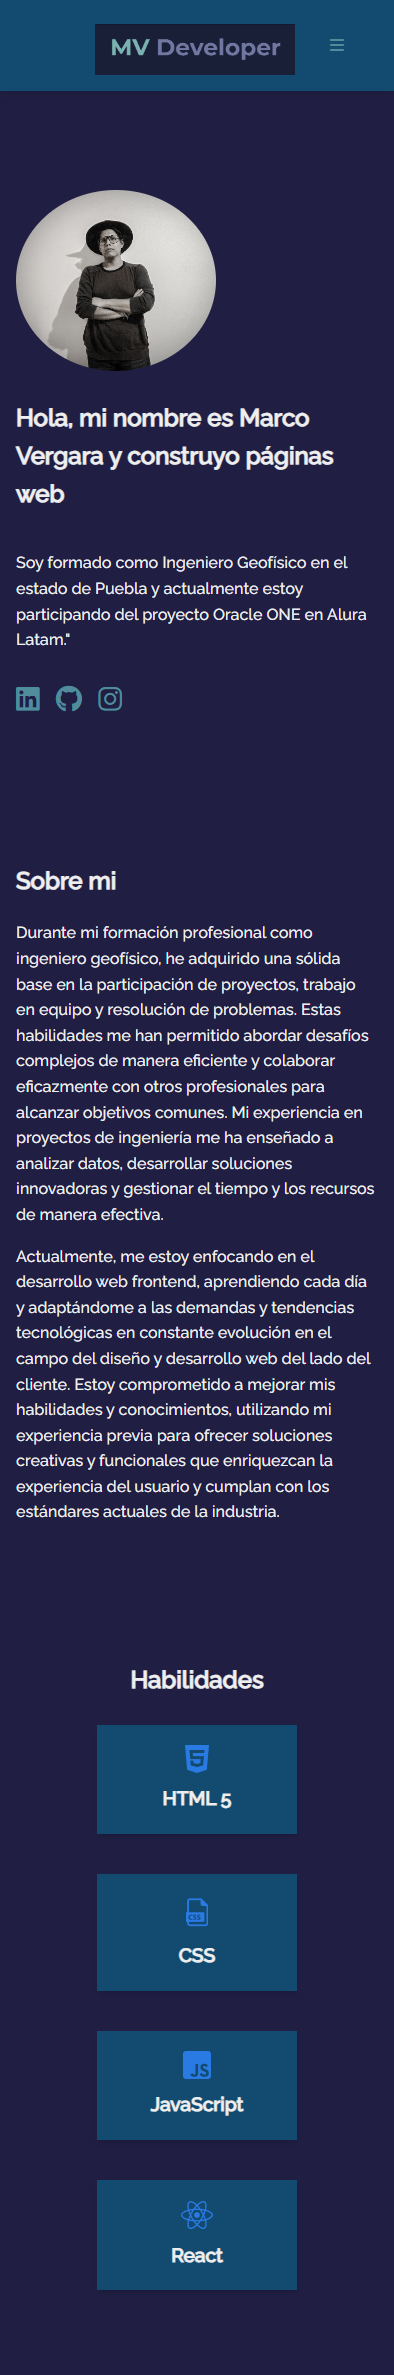
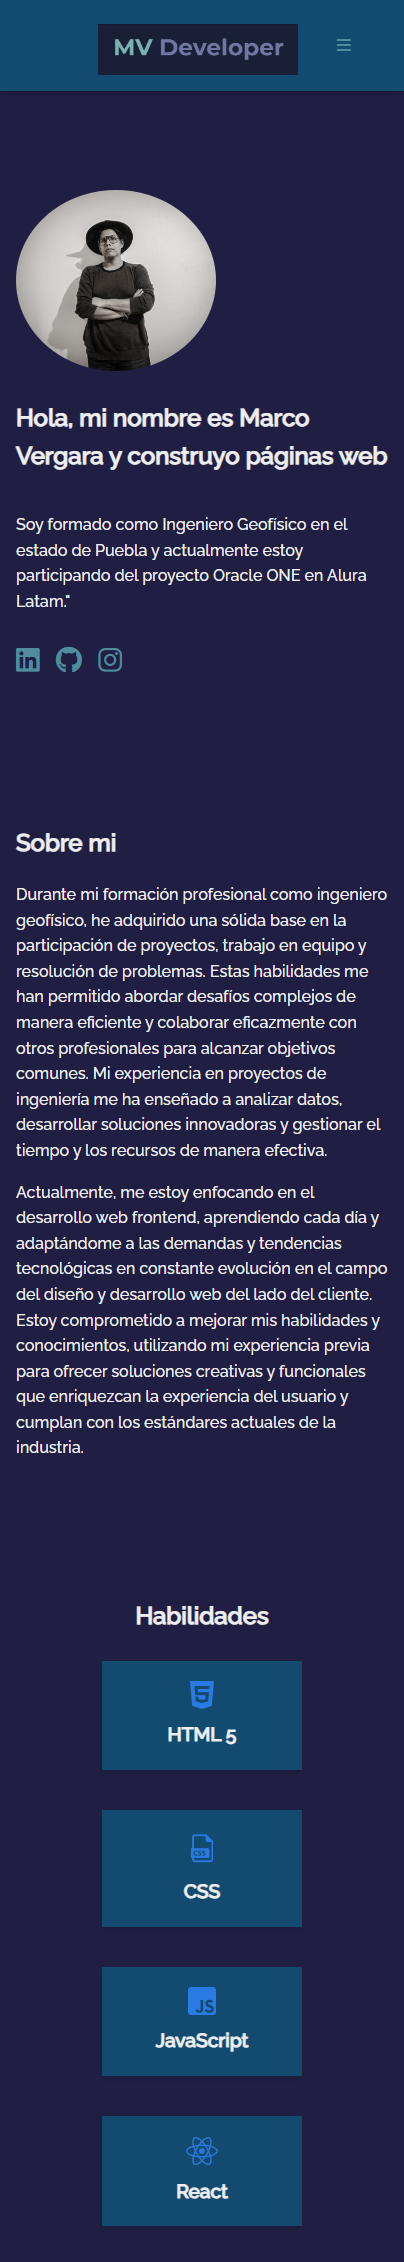
Modificaciones al archivo README

diff --git a/README.MD b/README.MD
@@ -12,7 +12,7 @@ Versión para tablet:
 
 Versión para móvil:
 
-![imagen](assets/screenshots/tablet-challenge.png)
+![imagen](assets/screenshots/mobile-challenge.png)
 
 
 ## Herramientas utilizadas:
